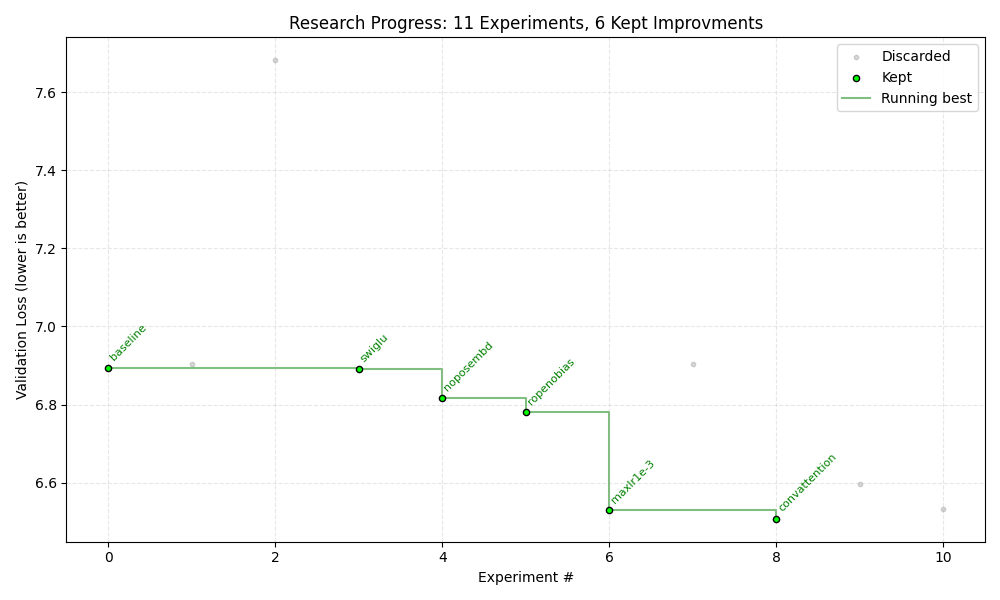
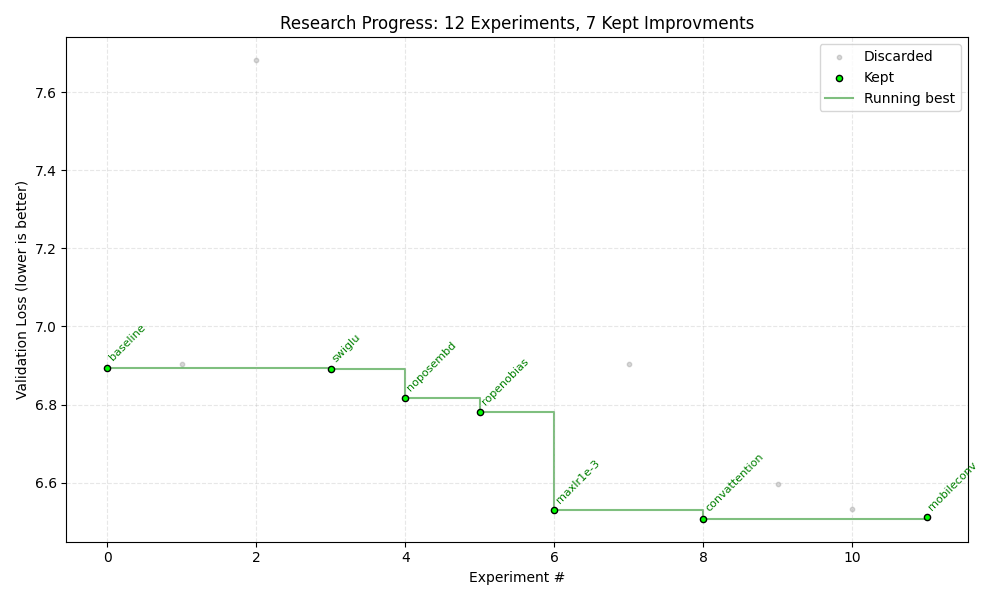
rollback mobileeconv

diff --git a/model.py b/model.py
@@ -5,26 +5,6 @@ import torch.nn.functional as F
 import tiktoken
 import inspect
 
-class MobileConv(nn.Module):
-    def __init__(self, dim, expansion_factor=4):
-        super().__init__()
-        inner_dim = dim * expansion_factor
-        self.expand = nn.Linear(dim, inner_dim, bias=False)
-        self.conv = nn.Conv1d(inner_dim, inner_dim, kernel_size=3, groups=inner_dim, bias=False)
-        self.proj = nn.Linear(inner_dim, dim, bias=False)
-        self.nonlin = nn.SiLU()
-
-    def forward(self, x):
-        identity = x
-        x = self.expand(x)
-        x = self.nonlin(x)
-        x = x.transpose(1, 2)
-        x = F.pad(x, (2, 0))
-        x = self.conv(x)
-        x = x.transpose(1, 2)
-        x = self.proj(x) 
-        return x + identity 
-
 def apply_rotary_pos_emb(q, k, cos, sin):
     cos = cos.unsqueeze(0).unsqueeze(2)
     sin = sin.unsqueeze(0).unsqueeze(2)
@@ -66,7 +46,7 @@ class CausalSelfAttention(nn.Module):
         super().__init__()
         assert config.n_embd % config.n_head == 0
         self.kernel_size = 3
-        self.l_conv = MobileConv(config.n_embd, 4)
+        self.l_conv = nn.Conv1d(config.n_embd, config.n_embd, kernel_size=self.kernel_size, groups=config.n_embd, bias=False)
         self.c_attn = nn.Linear(config.n_embd, 3 * config.n_embd, bias=False)
         self.c_proj = nn.Linear(config.n_embd, config.n_embd, bias=False)
         self.c_proj.GPT_SCALE_INIT = 1
@@ -78,7 +58,10 @@ class CausalSelfAttention(nn.Module):
 
     def forward(self, x):
         B, T, C = x.size()
+        x = x.transpose(1, 2)
+        x = F.pad(x, (self.kernel_size - 1, 0))
         x = self.l_conv(x)
+        x = x.transpose(1, 2)
         qkv = self.c_attn(x)
         q, k, v = qkv.split(self.n_embd, dim=2)
         k = k.view(B, T, self.n_head, self.head_dim)
